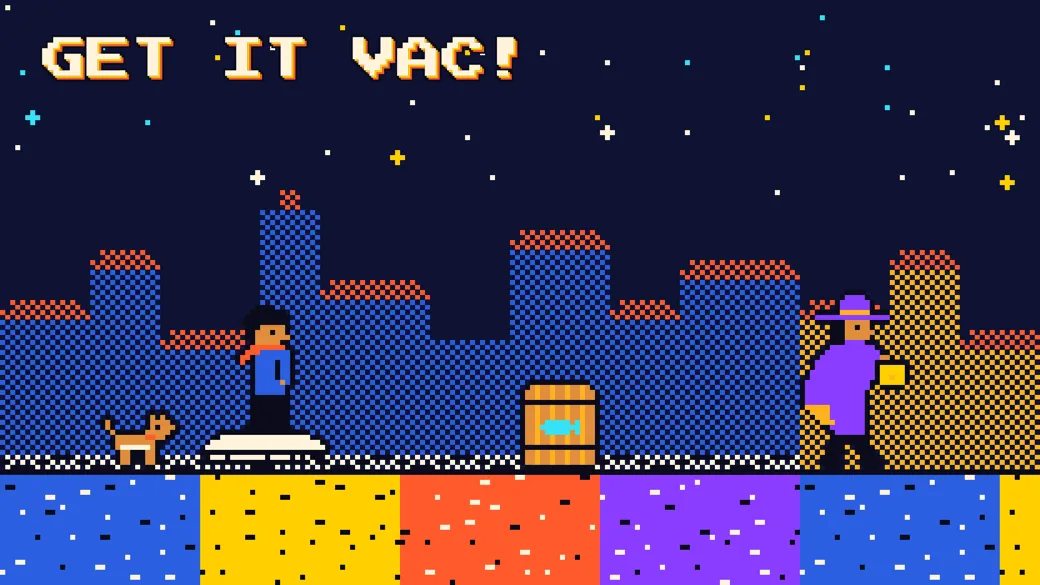
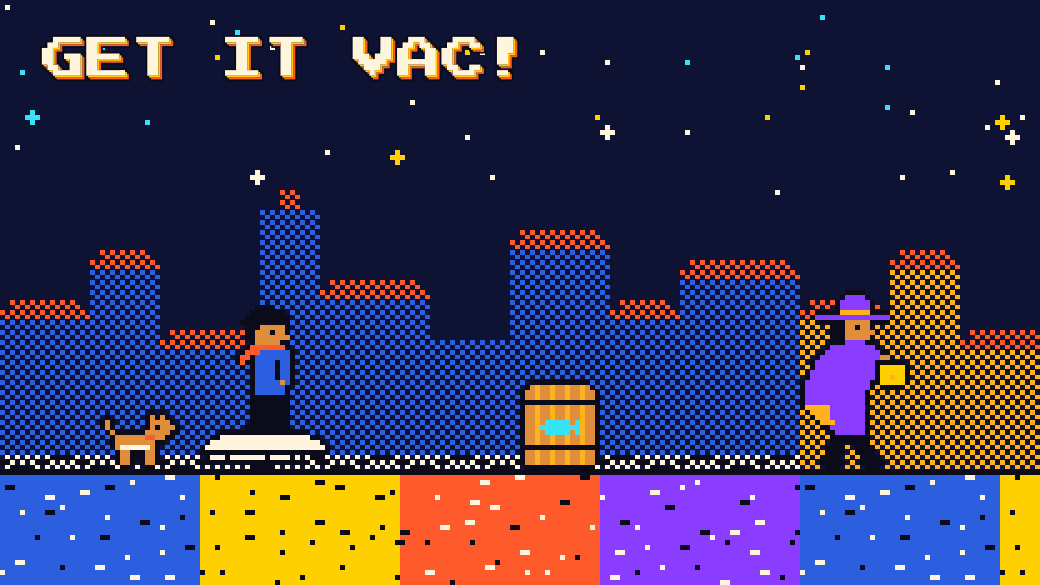
Pixel art nítida em WebP sem perdas e verificação da sintaxe do JS (#62)
Revisão do #60 e do #61:
- As imagens da página Get It Vac (pixel art do art.py) eram reamostradas a partir da mestre com sips,
  o que desfocava os píxeis e deixava as versões pequenas mais pesadas do que as grandes. O images.py
  passa a desenhar cada largura a partir do SVG, em múltiplos inteiros da grelha de píxeis, e a gravar
  só WebP sem perdas (1 a 7 KB por ficheiro, contra 8 a 154 KB). O <picture> da pixel art deixa de
  levar AVIF. Larguras novas: hero 624/1040/2080, comando e multijogador 496/744/992, cartaz-ar 240/480
  (desenha o cartaz a meio píxel: pixel_grid 240).
- O check_site.py confirma que o site.js e o consent.js têm (), [] e {} equilibrados e, com Node,
  corre node --check. Um conflito mal resolvido entre o #60 e o #61 deixou o site.js sem uma chaveta
  e o check_site.py passava.
- Limpeza no check_site.py: h1 procurado duas vezes e import json local repetido.

Os ficheiros que saem vão para _PODE-DELETAR/.

diff --git a/public/produtos/get-it-vac/index.html b/public/produtos/get-it-vac/index.html
@@ -61,7 +61,7 @@
         <h1 data-split>Get It Vac</h1>
         <p class="examples-title">Caso de estudo · Web Summit Lisboa 2026 (<span lang="en">unofficial stand</span>)</p>
         <p class="lead">Um jogo arcade comandado por um mini robô aspirador ligado à internet, com multijogador no telemóvel, fotografias, realidade aumentada e dados anónimos. Fizemo-lo em 5 dias.</p>
-        <figure class="case-hero"><picture><source type="image/avif" srcset="/assets/img/get-it-vac/hero-640.avif 640w, /assets/img/get-it-vac/hero-1040.avif 1040w, /assets/img/get-it-vac/hero-2080.avif 2080w" sizes="(min-width: 68rem) 65rem, (min-width: 40rem) calc(100vw - 3rem), calc(100vw - 2rem)"><source type="image/webp" srcset="/assets/img/get-it-vac/hero-640.webp 640w, /assets/img/get-it-vac/hero-1040.webp 1040w, /assets/img/get-it-vac/hero-2080.webp 2080w" sizes="(min-width: 68rem) 65rem, (min-width: 40rem) calc(100vw - 3rem), calc(100vw - 2rem)"><img src="/assets/img/get-it-vac/hero-1040.webp" alt="Ilustração do ecrã do Get It Vac: o mini robô aspirador numa corrida em pixel art pelos bairros de Lisboa." width="2080" height="1170" fetchpriority="high"></picture></figure>
+        <figure class="case-hero"><picture><source type="image/webp" srcset="/assets/img/get-it-vac/hero-624.webp 624w, /assets/img/get-it-vac/hero-1040.webp 1040w, /assets/img/get-it-vac/hero-2080.webp 2080w" sizes="(min-width: 68rem) 65rem, (min-width: 40rem) calc(100vw - 3rem), calc(100vw - 2rem)"><img src="/assets/img/get-it-vac/hero-1040.webp" alt="Ilustração do ecrã do Get It Vac: o mini robô aspirador numa corrida em pixel art pelos bairros de Lisboa." width="2080" height="1170" fetchpriority="high"></picture></figure>
       </div>
     </section>
 
@@ -96,7 +96,7 @@
               <h3>O comando</h3>
               <p>Microcontroladores e um joystick dentro do robô aspirador, ligados por Wi-Fi a um relay WebSocket que passa cada movimento ao jogo.</p>
             </div>
-            <div class="case-media case-media-1"><picture><source type="image/avif" srcset="/assets/img/get-it-vac/comando-480.avif 480w, /assets/img/get-it-vac/comando-720.avif 720w, /assets/img/get-it-vac/comando-992.avif 992w" sizes="(min-width: 68rem) 31rem, (min-width: 52rem) calc(50vw - 3rem), (min-width: 40rem) calc(100vw - 3rem), calc(100vw - 2rem)"><source type="image/webp" srcset="/assets/img/get-it-vac/comando-480.webp 480w, /assets/img/get-it-vac/comando-720.webp 720w, /assets/img/get-it-vac/comando-992.webp 992w" sizes="(min-width: 68rem) 31rem, (min-width: 52rem) calc(50vw - 3rem), (min-width: 40rem) calc(100vw - 3rem), calc(100vw - 2rem)"><img src="/assets/img/get-it-vac/comando-720.webp" alt="Ilustração do comando: o mini robô aspirador aberto, com os microcontroladores e o joystick que comandam o jogo." width="992" height="744" loading="lazy" decoding="async"></picture></div>
+            <div class="case-media case-media-1"><picture><source type="image/webp" srcset="/assets/img/get-it-vac/comando-496.webp 496w, /assets/img/get-it-vac/comando-744.webp 744w, /assets/img/get-it-vac/comando-992.webp 992w" sizes="(min-width: 68rem) 31rem, (min-width: 52rem) calc(50vw - 3rem), (min-width: 40rem) calc(100vw - 3rem), calc(100vw - 2rem)"><img src="/assets/img/get-it-vac/comando-744.webp" alt="Ilustração do comando: o mini robô aspirador aberto, com os microcontroladores e o joystick que comandam o jogo." width="992" height="744" loading="lazy" decoding="async"></picture></div>
           </li>
           <li class="case-feature">
             <div>
@@ -104,7 +104,7 @@
               <h3>Multijogador</h3>
               <p>Até 5 telemóveis jogam ao mesmo tempo. Cada pessoa entra com um QR code, sem aplicação nem conta.</p>
             </div>
-            <div class="case-media case-media-1"><picture><source type="image/avif" srcset="/assets/img/get-it-vac/multijogador-480.avif 480w, /assets/img/get-it-vac/multijogador-720.avif 720w, /assets/img/get-it-vac/multijogador-992.avif 992w" sizes="(min-width: 68rem) 31rem, (min-width: 52rem) calc(50vw - 3rem), (min-width: 40rem) calc(100vw - 3rem), calc(100vw - 2rem)"><source type="image/webp" srcset="/assets/img/get-it-vac/multijogador-480.webp 480w, /assets/img/get-it-vac/multijogador-720.webp 720w, /assets/img/get-it-vac/multijogador-992.webp 992w" sizes="(min-width: 68rem) 31rem, (min-width: 52rem) calc(50vw - 3rem), (min-width: 40rem) calc(100vw - 3rem), calc(100vw - 2rem)"><img src="/assets/img/get-it-vac/multijogador-720.webp" alt="Ilustração do multijogador: três telemóveis a jogar o Get It Vac, ao lado do código QR de entrada." width="992" height="744" loading="lazy" decoding="async"></picture></div>
+            <div class="case-media case-media-1"><picture><source type="image/webp" srcset="/assets/img/get-it-vac/multijogador-496.webp 496w, /assets/img/get-it-vac/multijogador-744.webp 744w, /assets/img/get-it-vac/multijogador-992.webp 992w" sizes="(min-width: 68rem) 31rem, (min-width: 52rem) calc(50vw - 3rem), (min-width: 40rem) calc(100vw - 3rem), calc(100vw - 2rem)"><img src="/assets/img/get-it-vac/multijogador-744.webp" alt="Ilustração do multijogador: três telemóveis a jogar o Get It Vac, ao lado do código QR de entrada." width="992" height="744" loading="lazy" decoding="async"></picture></div>
           </li>
           <li class="case-feature">
             <div>
@@ -112,7 +112,7 @@
               <h3>Versão para telemóvel</h3>
               <p>Uma selfie com moldura de azulejo para partilhar, e realidade aumentada no cartaz do jogo.</p>
             </div>
-            <div class="case-media case-media-2"><picture><source type="image/avif" srcset="/assets/img/get-it-vac/selfie-240.avif 240w, /assets/img/get-it-vac/selfie-360.avif 360w, /assets/img/get-it-vac/selfie-480.avif 480w" sizes="(min-width: 68rem) 15rem, (min-width: 52rem) calc(25vw - 2rem), calc(50vw - 1.5rem)"><source type="image/webp" srcset="/assets/img/get-it-vac/selfie-240.webp 240w, /assets/img/get-it-vac/selfie-360.webp 360w, /assets/img/get-it-vac/selfie-480.webp 480w" sizes="(min-width: 68rem) 15rem, (min-width: 52rem) calc(25vw - 2rem), calc(50vw - 1.5rem)"><img src="/assets/img/get-it-vac/selfie-360.webp" alt="Ilustração da selfie: uma navegadora com a moldura de azulejo azul e branco da versão para telemóvel." width="480" height="600" loading="lazy" decoding="async"></picture><picture><source type="image/avif" srcset="/assets/img/get-it-vac/cartaz-ar-240.avif 240w, /assets/img/get-it-vac/cartaz-ar-360.avif 360w, /assets/img/get-it-vac/cartaz-ar-480.avif 480w" sizes="(min-width: 68rem) 15rem, (min-width: 52rem) calc(25vw - 2rem), calc(50vw - 1.5rem)"><source type="image/webp" srcset="/assets/img/get-it-vac/cartaz-ar-240.webp 240w, /assets/img/get-it-vac/cartaz-ar-360.webp 360w, /assets/img/get-it-vac/cartaz-ar-480.webp 480w" sizes="(min-width: 68rem) 15rem, (min-width: 52rem) calc(25vw - 2rem), calc(50vw - 1.5rem)"><img src="/assets/img/get-it-vac/cartaz-ar-360.webp" alt="Ilustração do cartaz com AR: o telemóvel apontado ao cartaz do Get It Vac, com o robô em realidade aumentada por cima." width="480" height="600" loading="lazy" decoding="async"></picture></div>
+            <div class="case-media case-media-2"><picture><source type="image/webp" srcset="/assets/img/get-it-vac/selfie-240.webp 240w, /assets/img/get-it-vac/selfie-360.webp 360w, /assets/img/get-it-vac/selfie-480.webp 480w" sizes="(min-width: 68rem) 15rem, (min-width: 52rem) calc(25vw - 2rem), calc(50vw - 1.5rem)"><img src="/assets/img/get-it-vac/selfie-360.webp" alt="Ilustração da selfie: uma navegadora com a moldura de azulejo azul e branco da versão para telemóvel." width="480" height="600" loading="lazy" decoding="async"></picture><picture><source type="image/webp" srcset="/assets/img/get-it-vac/cartaz-ar-240.webp 240w, /assets/img/get-it-vac/cartaz-ar-480.webp 480w" sizes="(min-width: 68rem) 15rem, (min-width: 52rem) calc(25vw - 2rem), calc(50vw - 1.5rem)"><img src="/assets/img/get-it-vac/cartaz-ar-480.webp" alt="Ilustração do cartaz com AR: o telemóvel apontado ao cartaz do Get It Vac, com o robô em realidade aumentada por cima." width="480" height="600" loading="lazy" decoding="async"></picture></div>
           </li>
           <li class="case-feature case-feature-text">
             <div>

diff --git a/public/en/products/get-it-vac/index.html b/public/en/products/get-it-vac/index.html
@@ -61,7 +61,7 @@
         <h1 data-split>Get It Vac</h1>
         <p class="examples-title"><span lang="pt-PT">Caso de estudo</span> · Web Summit Lisboa 2026 (unofficial stand)</p>
         <p class="lead">An arcade game controlled by an internet-connected mini robot vacuum, with phone multiplayer, photos, augmented reality and anonymous data. We built it in 5 days.</p>
-        <figure class="case-hero"><picture><source type="image/avif" srcset="/assets/img/get-it-vac/hero-640.avif 640w, /assets/img/get-it-vac/hero-1040.avif 1040w, /assets/img/get-it-vac/hero-2080.avif 2080w" sizes="(min-width: 68rem) 65rem, (min-width: 40rem) calc(100vw - 3rem), calc(100vw - 2rem)"><source type="image/webp" srcset="/assets/img/get-it-vac/hero-640.webp 640w, /assets/img/get-it-vac/hero-1040.webp 1040w, /assets/img/get-it-vac/hero-2080.webp 2080w" sizes="(min-width: 68rem) 65rem, (min-width: 40rem) calc(100vw - 3rem), calc(100vw - 2rem)"><img src="/assets/img/get-it-vac/hero-1040.webp" alt="Illustration of the Get It Vac screen: the mini robot vacuum on a pixel art race through Lisbon&#x27;s neighbourhoods." width="2080" height="1170" fetchpriority="high"></picture></figure>
+        <figure class="case-hero"><picture><source type="image/webp" srcset="/assets/img/get-it-vac/hero-624.webp 624w, /assets/img/get-it-vac/hero-1040.webp 1040w, /assets/img/get-it-vac/hero-2080.webp 2080w" sizes="(min-width: 68rem) 65rem, (min-width: 40rem) calc(100vw - 3rem), calc(100vw - 2rem)"><img src="/assets/img/get-it-vac/hero-1040.webp" alt="Illustration of the Get It Vac screen: the mini robot vacuum on a pixel art race through Lisbon&#x27;s neighbourhoods." width="2080" height="1170" fetchpriority="high"></picture></figure>
       </div>
     </section>
 
@@ -96,7 +96,7 @@
               <h3>The controller</h3>
               <p>Microcontrollers and a joystick inside the robot vacuum, connected over Wi-Fi to a WebSocket relay that passes each move to the game.</p>
             </div>
-            <div class="case-media case-media-1"><picture><source type="image/avif" srcset="/assets/img/get-it-vac/comando-480.avif 480w, /assets/img/get-it-vac/comando-720.avif 720w, /assets/img/get-it-vac/comando-992.avif 992w" sizes="(min-width: 68rem) 31rem, (min-width: 52rem) calc(50vw - 3rem), (min-width: 40rem) calc(100vw - 3rem), calc(100vw - 2rem)"><source type="image/webp" srcset="/assets/img/get-it-vac/comando-480.webp 480w, /assets/img/get-it-vac/comando-720.webp 720w, /assets/img/get-it-vac/comando-992.webp 992w" sizes="(min-width: 68rem) 31rem, (min-width: 52rem) calc(50vw - 3rem), (min-width: 40rem) calc(100vw - 3rem), calc(100vw - 2rem)"><img src="/assets/img/get-it-vac/comando-720.webp" alt="Illustration of the controller: the mini robot vacuum opened up, with the microcontrollers and the joystick that control the game." width="992" height="744" loading="lazy" decoding="async"></picture></div>
+            <div class="case-media case-media-1"><picture><source type="image/webp" srcset="/assets/img/get-it-vac/comando-496.webp 496w, /assets/img/get-it-vac/comando-744.webp 744w, /assets/img/get-it-vac/comando-992.webp 992w" sizes="(min-width: 68rem) 31rem, (min-width: 52rem) calc(50vw - 3rem), (min-width: 40rem) calc(100vw - 3rem), calc(100vw - 2rem)"><img src="/assets/img/get-it-vac/comando-744.webp" alt="Illustration of the controller: the mini robot vacuum opened up, with the microcontrollers and the joystick that control the game." width="992" height="744" loading="lazy" decoding="async"></picture></div>
           </li>
           <li class="case-feature">
             <div>
@@ -104,7 +104,7 @@
               <h3>Multiplayer</h3>
               <p>Up to 5 phones play at the same time. Each person joins with a QR code, with no app and no account.</p>
             </div>
-            <div class="case-media case-media-1"><picture><source type="image/avif" srcset="/assets/img/get-it-vac/multijogador-480.avif 480w, /assets/img/get-it-vac/multijogador-720.avif 720w, /assets/img/get-it-vac/multijogador-992.avif 992w" sizes="(min-width: 68rem) 31rem, (min-width: 52rem) calc(50vw - 3rem), (min-width: 40rem) calc(100vw - 3rem), calc(100vw - 2rem)"><source type="image/webp" srcset="/assets/img/get-it-vac/multijogador-480.webp 480w, /assets/img/get-it-vac/multijogador-720.webp 720w, /assets/img/get-it-vac/multijogador-992.webp 992w" sizes="(min-width: 68rem) 31rem, (min-width: 52rem) calc(50vw - 3rem), (min-width: 40rem) calc(100vw - 3rem), calc(100vw - 2rem)"><img src="/assets/img/get-it-vac/multijogador-720.webp" alt="Illustration of multiplayer: three phones playing Get It Vac, next to the QR code to join." width="992" height="744" loading="lazy" decoding="async"></picture></div>
+            <div class="case-media case-media-1"><picture><source type="image/webp" srcset="/assets/img/get-it-vac/multijogador-496.webp 496w, /assets/img/get-it-vac/multijogador-744.webp 744w, /assets/img/get-it-vac/multijogador-992.webp 992w" sizes="(min-width: 68rem) 31rem, (min-width: 52rem) calc(50vw - 3rem), (min-width: 40rem) calc(100vw - 3rem), calc(100vw - 2rem)"><img src="/assets/img/get-it-vac/multijogador-744.webp" alt="Illustration of multiplayer: three phones playing Get It Vac, next to the QR code to join." width="992" height="744" loading="lazy" decoding="async"></picture></div>
           </li>
           <li class="case-feature">
             <div>
@@ -112,7 +112,7 @@
               <h3>Phone version</h3>
               <p>A selfie with a tile frame to share, and augmented reality on the game poster.</p>
             </div>
-            <div class="case-media case-media-2"><picture><source type="image/avif" srcset="/assets/img/get-it-vac/selfie-240.avif 240w, /assets/img/get-it-vac/selfie-360.avif 360w, /assets/img/get-it-vac/selfie-480.avif 480w" sizes="(min-width: 68rem) 15rem, (min-width: 52rem) calc(25vw - 2rem), calc(50vw - 1.5rem)"><source type="image/webp" srcset="/assets/img/get-it-vac/selfie-240.webp 240w, /assets/img/get-it-vac/selfie-360.webp 360w, /assets/img/get-it-vac/selfie-480.webp 480w" sizes="(min-width: 68rem) 15rem, (min-width: 52rem) calc(25vw - 2rem), calc(50vw - 1.5rem)"><img src="/assets/img/get-it-vac/selfie-360.webp" alt="Illustration of the selfie: a navigator with the blue and white tile frame from the phone version." width="480" height="600" loading="lazy" decoding="async"></picture><picture><source type="image/avif" srcset="/assets/img/get-it-vac/cartaz-ar-240.avif 240w, /assets/img/get-it-vac/cartaz-ar-360.avif 360w, /assets/img/get-it-vac/cartaz-ar-480.avif 480w" sizes="(min-width: 68rem) 15rem, (min-width: 52rem) calc(25vw - 2rem), calc(50vw - 1.5rem)"><source type="image/webp" srcset="/assets/img/get-it-vac/cartaz-ar-240.webp 240w, /assets/img/get-it-vac/cartaz-ar-360.webp 360w, /assets/img/get-it-vac/cartaz-ar-480.webp 480w" sizes="(min-width: 68rem) 15rem, (min-width: 52rem) calc(25vw - 2rem), calc(50vw - 1.5rem)"><img src="/assets/img/get-it-vac/cartaz-ar-360.webp" alt="Illustration of the AR poster: a phone pointed at the Get It Vac poster, with the robot in augmented reality on top." width="480" height="600" loading="lazy" decoding="async"></picture></div>
+            <div class="case-media case-media-2"><picture><source type="image/webp" srcset="/assets/img/get-it-vac/selfie-240.webp 240w, /assets/img/get-it-vac/selfie-360.webp 360w, /assets/img/get-it-vac/selfie-480.webp 480w" sizes="(min-width: 68rem) 15rem, (min-width: 52rem) calc(25vw - 2rem), calc(50vw - 1.5rem)"><img src="/assets/img/get-it-vac/selfie-360.webp" alt="Illustration of the selfie: a navigator with the blue and white tile frame from the phone version." width="480" height="600" loading="lazy" decoding="async"></picture><picture><source type="image/webp" srcset="/assets/img/get-it-vac/cartaz-ar-240.webp 240w, /assets/img/get-it-vac/cartaz-ar-480.webp 480w" sizes="(min-width: 68rem) 15rem, (min-width: 52rem) calc(25vw - 2rem), calc(50vw - 1.5rem)"><img src="/assets/img/get-it-vac/cartaz-ar-480.webp" alt="Illustration of the AR poster: a phone pointed at the Get It Vac poster, with the robot in augmented reality on top." width="480" height="600" loading="lazy" decoding="async"></picture></div>
           </li>
           <li class="case-feature case-feature-text">
             <div>

diff --git a/tests/check_site.py b/tests/check_site.py
@@ -3,7 +3,10 @@
 Corre com: python3 tests/check_site.py
 Sai com código 1 se alguma regra falhar.
 """
+import json
 import re
+import shutil
+import subprocess
 from datetime import date
 import sys
 from html.parser import HTMLParser
@@ -360,7 +363,6 @@ def shape(value):
 
 
 def check_content(check):
-    import json
     data = {}
     for lang, path in CONTENT.items():
         check(path.exists(), f"{path.relative_to(BASE)} em falta")
@@ -889,7 +891,6 @@ def check_positioning(check, url, html, lang, is_home, is_about, is_services):
         check(lead is not None and lead.group(1) == HERO_LEAD[lang], f"{url}: o lead do hero deve ser '{HERO_LEAD[lang]}'")
         check('<ul class="grid grid-3" data-reveal>' in html, f"{url}: os 3 serviços vão numa .grid-3")
         check('<ol class="grid grid-3" role="list" data-reveal>' in html, f"{url}: os 3 passos vão numa .grid-3")
-        h1 = re.search(r"<h1[^>]*>(.*?)</h1>", html, re.S).group(1)
         main = html[html.index("<main"):html.index("</main>")]
         cards = re.findall(r'<li class="card card-service">(.*?)</li>', main, re.S)
         check(all("<ul" not in c for c in cards), f"{url}: os cartões de serviço do Início levam só a descrição")
@@ -928,7 +929,6 @@ def check_hero_drift(check):
 
 def check_icons_used(check):
     """#58: cada ícone de src/icons/ é usado nos conteúdos; os que sobram vão para _PODE-DELETAR/."""
-    import json
     used = set()
     for path in CONTENT.values():
         used |= set(re.findall(r'"icon": "([\w-]+)"', path.read_text(encoding="utf-8")))
@@ -959,6 +959,7 @@ GET_IT_VAC_NUMBERS = ["122", "67", "18", "13", "19", "80 s"]
 # Fica de fora: o repositório e planos futuros.
 GET_IT_VAC_OUT = re.compile(r"github|repositório|repository|roadmap|planos futuros|future plans|\boficial\b|\bofficial\b", re.I)
 IMG_DIR = "/assets/img/"
+PICTURES = json.loads((BASE / "src" / "images" / "images.json").read_text(encoding="utf-8"))
 
 
 def image_size(path):
@@ -986,7 +987,12 @@ def check_pictures(check, url, html, hero_first):
     pics = re.findall(r"<picture\b[^>]*>(.*?)</picture>", html, re.S)
     for n, pic in enumerate(pics):
         sources = re.findall(r'<source type="([^"]+)" srcset="([^"]+)" sizes="([^"]+)">', pic)
-        check([t for t, _, _ in sources] == ["image/avif", "image/webp"], f"{url}: <picture> {n + 1} sem AVIF e WebP, por esta ordem")
+        # Pixel art (revisão do #61): só WebP sem perdas, que é mais leve e exato do que o AVIF.
+        first = re.search(rf'{IMG_DIR}([\w/-]+)-\d+\.\w+', sources[0][1]) if sources else None
+        pixel = bool(first and PICTURES.get(first.group(1), {}).get("pixel_art"))
+        want = ["image/webp"] if pixel else ["image/avif", "image/webp"]
+        check([t for t, _, _ in sources] == want,
+              f"{url}: <picture> {n + 1} com {[t for t, _, _ in sources]}, esperado {want}")
         img = re.search(r"<img\b([^>]*)>", pic)
         check(img is not None, f"{url}: <picture> {n + 1} sem <img>")
         if not sources or img is None:
@@ -1006,7 +1012,8 @@ def check_pictures(check, url, html, hero_first):
         for kind, srcset, sizes in sources:
             ext = {"image/avif": ".avif", "image/webp": ".webp"}.get(kind, "?")
             entries = [e.strip().rsplit(" ", 1) for e in srcset.split(",")]
-            check(len(entries) == 3, f"{url}: srcset {kind} com {len(entries)} larguras (devem ser 3)")
+            # A pixel art pode ter 2 larguras: só valem múltiplos da grelha de píxeis até ao limite (cap).
+            check(len(entries) == 3 or (pixel and len(entries) == 2), f"{url}: srcset {kind} com {len(entries)} larguras (devem ser 3)")
             cap = max((float(x) for x in re.findall(r"([\d.]+)rem\)?(?:,|$)", sizes)), default=0) * 16 * 2
             for src, desc in entries:
                 f = file_for(src)
@@ -1125,7 +1132,6 @@ def check_card_motion(check):
 
 def check_art(check):
     """#59: as imagens do Get It Vac são ilustrações feitas pelo scripts/art.py, sem o rótulo "placeholder"."""
-    import json
     check(not (BASE / "scripts" / "placeholders.swift").exists(), "scripts/placeholders.swift sai (imagens provisórias com rótulo)")
     images = json.loads((BASE / "src" / "images" / "images.json").read_text(encoding="utf-8"))
     check("get-it-vac/cartao" not in images, "images.json: o cartão passa a SVG (public/assets/img/projetos/)")
@@ -1135,6 +1141,94 @@ def check_art(check):
               f"src/images/{name}.svg em falta ou com 'placeholder' (gerar com scripts/art.py)")
     for f in ("vizia/sala.svg", "vizia/icon.svg", "get-it-vac/logo.svg", "get-it-vac/sprites.json", "get-it-vac/cartaz.json"):
         check((BASE / "src" / "art" / f).exists(), f"src/art/{f} em falta (assets dos projetos)")
+
+
+# Revisão do #60 e do #61: o site.js e o consent.js têm de ser JS válido. O check_site.py não corre o JS,
+# por isso confirma que (), [] e {} estão equilibrados (sem contar strings, comentários e regex) e, se o
+# Node existir, corre `node --check`. Um conflito mal resolvido deixou o site.js sem uma chaveta.
+JS_DIR = ROOT / "assets" / "js"
+REGEX_BEFORE = "(,=:[!&|?{};+-*%<>~^"
+
+
+def js_brackets(js):
+    """O primeiro problema de equilíbrio de (), [] e {} no JS, ou None."""
+    pairs, stack, i, prev = {")": "(", "]": "[", "}": "{"}, [], 0, ""
+    line = lambda at: js.count("\n", 0, at) + 1
+    while i < len(js):
+        c = js[i]
+        if js.startswith("//", i):
+            end = js.find("\n", i)
+            i = len(js) if end < 0 else end
+            continue
+        if js.startswith("/*", i):
+            end = js.find("*/", i + 2)
+            if end < 0:
+                return f"comentário por fechar (linha {line(i)})"
+            i = end + 2
+            continue
+        if c in "'\"`" or (c == "/" and prev in ("",) + tuple(REGEX_BEFORE)):
+            j, in_class = i + 1, False
+            while j < len(js) and (js[j] != c or in_class) and js[j] != "\n":
+                if js[j] == "\\":
+                    j += 1
+                elif c == "/" and js[j] in "[]":
+                    in_class = js[j] == "["
+                j += 1
+            if j >= len(js) or js[j] != c:
+                return f"{'regex' if c == '/' else 'string'} por fechar (linha {line(i)})"
+            i, prev = j + 1, c
+            continue
+        if c in "([{":
+            stack.append((c, i))
+        elif c in ")]}":
+            if not stack or stack[-1][0] != pairs[c]:
+                return f"'{c}' sem par (linha {line(i)})"
+            stack.pop()
+        if not c.isspace():
+            prev = c
+        i += 1
+    if stack:
+        c, at = stack[-1]
+        return f"'{c}' por fechar (linha {line(at)})"
+    return None
+
+
+def check_js_syntax(check):
+    node = shutil.which("node")
+    for f in sorted(JS_DIR.glob("*.js")):
+        problem = js_brackets(f.read_text(encoding="utf-8"))
+        check(problem is None, f"assets/js/{f.name}: {problem}")
+        if node:
+            r = subprocess.run([node, "--check", str(f)], capture_output=True, text=True)
+            err = (r.stderr.strip().splitlines() or [""])
+            check(r.returncode == 0, f"assets/js/{f.name}: node --check falhou ({err[-1] if r.returncode else ''})")
+
+
+# Pixel art (revisão do #61): as imagens do scripts/art.py só ficam nítidas em múltiplos inteiros da
+# grelha de píxeis (a largura do SVG, ou "pixel_grid" se o desenho usa meios píxeis), desenhadas do SVG
+# em cada largura (pixel_art no images.json). Reamostrar a mestre desfocava os píxeis e as versões
+# pequenas pesavam mais do que as grandes. Vão só em WebP sem perdas (VP8L): poucas cores em blocos
+# ficam com 1 a 7 KB e exatas; o AVIF sai mais pesado.
+def check_pixel_art(check):
+    for name, spec in PICTURES.items():
+        svg = BASE / "src" / "images" / f"{name}.svg"
+        if not svg.exists():
+            continue
+        check(spec.get("pixel_art") is True, f"images.json: {name} é pixel art (src/images/{name}.svg) e precisa de \"pixel_art\": true")
+        view = re.search(r'viewBox="0 0 ([\d.]+) ([\d.]+)"', svg.read_text(encoding="utf-8"))
+        base = spec.get("pixel_grid") or (float(view.group(1)) if view else 0)
+        if "0.5" in svg.read_text(encoding="utf-8") and "pixel_grid" not in spec:
+            check(False, f"images.json: {name} usa meios píxeis (0.5) e precisa de \"pixel_grid\" (o dobro da largura do SVG)")
+        for w in spec["widths"]:
+            check(base and (w / base).is_integer(),
+                  f"images.json: {name} a {w} px não é múltiplo inteiro de {base:g} px (a grelha de píxeis)")
+        stem = ROOT / "assets" / "img" / name
+        widths = sorted(spec["widths"])
+        files = [Path(f"{stem}-{w}.webp") for w in widths]
+        for f in files:
+            check(f.exists() and f.read_bytes()[12:16] == b"VP8L", f"{f.name}: a pixel art vai em WebP sem perdas (cwebp -lossless)")
+        avif = [Path(f"{stem}-{w}.avif").name for w in widths if Path(f"{stem}-{w}.avif").exists()]
+        check(not avif, f"{name}: a pixel art não leva AVIF (mover para _PODE-DELETAR/: {', '.join(avif)})")
 
 
 def check_privacy_links(check, pages_raw):
@@ -1167,6 +1261,8 @@ def main():
     check_icons_used(check)
     check_card_motion(check)
     check_art(check)
+    check_js_syntax(check)
+    check_pixel_art(check)
 
     titles, descriptions = {}, {}
     pages, pages_raw = {}, {}

diff --git a/scripts/images.py b/scripts/images.py
@@ -7,10 +7,19 @@ Corre com: python3 scripts/images.py   (precisa de sips, cwebp e avifenc: brew i
 - Gera public/assets/img/<nome>-<largura>.avif e .webp. O build.py lê as mesmas larguras
   e a proporção da mestre para escrever o <picture>, com width e height.
 
+Pixel art (as ilustrações do scripts/art.py, com "pixel_art": true no images.json): cada largura é desenhada
+do SVG com o scripts/raster.swift, sem reamostrar a mestre, e tem de ser um múltiplo inteiro da grelha de
+píxeis: a largura do SVG ou, se o desenho usa meios píxeis, o "pixel_grid" (o cartaz-ar desenha o cartaz a
+0,5, por isso a grelha é 240 e só cabem 240 e 480 px: a pixel art pode ter 2 larguras em vez de 3).
+Reamostrar desfoca os píxeis e as versões pequenas acabavam a pesar mais do que as grandes. Vai só em WebP
+sem perdas: poucas cores em blocos ficam com 1 KB ou menos e exatas, e o AVIF sai mais pesado.
+
 Para trocar uma imagem provisória pela final (#54): pôr a mestre com o mesmo nome e a mesma
-proporção, correr este script e depois o build.py e o check_site.py.
+proporção, tirar o "pixel_art" do images.json e mover o SVG para _PODE-DELETAR/, correr este script
+e depois o build.py e o check_site.py.
 """
 import json
+import re
 import subprocess
 import sys
 import tempfile
@@ -19,6 +28,7 @@ from pathlib import Path
 BASE = Path(__file__).resolve().parent.parent
 SRC = BASE / "src" / "images"
 OUT = BASE / "public" / "assets" / "img"
+IMAGES_GRID = {}  # "pixel_grid" do images.json, por imagem
 
 
 def master(name):
@@ -34,8 +44,24 @@ def pixel_width(path):
     return int(out.split()[-1])
 
 
+def pixel_art_pngs(name, widths, tmp):
+    """Desenha o SVG da pixel art em cada largura (múltiplo inteiro), com o raster.swift. Devolve {largura: png}."""
+    svg = SRC / f"{name}.svg"
+    vw, vh = (float(v) for v in re.search(r'viewBox="0 0 ([\d.]+) ([\d.]+)"', svg.read_text(encoding="utf-8")).groups())
+    grid = IMAGES_GRID.get(name) or vw
+    jobs, pngs = [], {}
+    for w in widths:
+        if not (w / grid).is_integer():
+            raise SystemExit(f"{name}: {w} px não é múltiplo inteiro de {grid:g} px (a grelha de píxeis)")
+        pngs[w] = Path(tmp) / f"{Path(name).name}-{w}.png"
+        jobs += [str(svg), str(pngs[w]), str(w), str(round(w * vh / vw))]
+    subprocess.run(["swift", str(BASE / "scripts" / "raster.swift"), *jobs], check=True, capture_output=True)
+    return pngs
+
+
 def main():
     config = json.loads((SRC / "images.json").read_text(encoding="utf-8"))
+    IMAGES_GRID.update({n: s["pixel_grid"] for n, s in config.items() if "pixel_grid" in s})
     for name, spec in config.items():
         src = master(name)
         widths = spec["widths"]
@@ -45,15 +71,22 @@ def main():
         target.mkdir(parents=True, exist_ok=True)
         stem = Path(name).name
         with tempfile.TemporaryDirectory() as tmp:
+            pngs = pixel_art_pngs(name, widths, tmp) if spec.get("pixel_art") else {}
             for w in widths:
-                png = Path(tmp) / f"{stem}-{w}.png"
-                subprocess.run(["sips", "--resampleWidth", str(w), str(src), "--out", str(png)],
-                               check=True, capture_output=True)
+                png = pngs.get(w) or Path(tmp) / f"{stem}-{w}.png"
+                if w not in pngs:
+                    subprocess.run(["sips", "--resampleWidth", str(w), str(src), "--out", str(png)],
+                                   check=True, capture_output=True)
+                if w in pngs:
+                    subprocess.run(["cwebp", "-quiet", "-lossless", "-z", "9", "-metadata", "none", str(png),
+                                    "-o", str(target / f"{stem}-{w}.webp")], check=True)
+                    continue
                 subprocess.run(["cwebp", "-quiet", "-q", "80", "-metadata", "none", str(png),
                                 "-o", str(target / f"{stem}-{w}.webp")], check=True)
                 subprocess.run(["avifenc", "-q", "60", "-s", "6", "--ignore-exif", "--ignore-xmp", str(png),
                                 str(target / f"{stem}-{w}.avif")], check=True, capture_output=True)
-        print(f"{name}: {', '.join(map(str, widths))} px em AVIF e WebP")
+        kind = "WebP sem perdas (pixel art)" if spec.get("pixel_art") else "AVIF e WebP"
+        print(f"{name}: {', '.join(map(str, widths))} px em {kind}")
 
 
 if __name__ == "__main__":

diff --git a/scripts/build.py b/scripts/build.py
@@ -12,6 +12,7 @@ se tiver "label", leva uma etiqueta numerada (01), (02)… pela ordem em que apa
 
 As imagens são <picture> com AVIF e WebP (#34): larguras e sizes em src/images/images.json, proporção
 da imagem-mestre em src/images/, ficheiros gerados por scripts/images.py. O alt vem dos conteúdos.
+A pixel art ("pixel_art" no images.json) vai só em WebP sem perdas.
 """
 import hashlib
 import json
@@ -99,7 +100,9 @@ def master_size(name):
 
 
 def picture(image, eager=False, cls=None):
-    """<picture> com AVIF e WebP em 3 larguras. Só a imagem do hero carrega logo (#34)."""
+    """<picture> com AVIF e WebP em 3 larguras. Só a imagem do hero carrega logo (#34).
+
+    A pixel art ("pixel_art" no images.json) vai só em WebP sem perdas, mais leve e exato do que o AVIF."""
     name = image["name"]
     spec = IMAGES[name]
     width, height = master_size(name)
@@ -113,7 +116,8 @@ def picture(image, eager=False, cls=None):
     fallback = f"{IMG_URL}{name}-{spec['widths'][1]}.webp"
     load = 'fetchpriority="high"' if eager else 'loading="lazy" decoding="async"'
     css = f' class="{cls}"' if cls else ""
-    return (f'<picture{css}><source type="image/avif" srcset="{srcset("avif")}" sizes="{sizes}">'
+    avif = "" if spec.get("pixel_art") else f'<source type="image/avif" srcset="{srcset("avif")}" sizes="{sizes}">'
+    return (f'<picture{css}>{avif}'
             f'<source type="image/webp" srcset="{srcset("webp")}" sizes="{sizes}">'
             f'<img src="{fallback}" alt="{attr(image["alt"])}" width="{width}" height="{height}" {load}></picture>')
 
